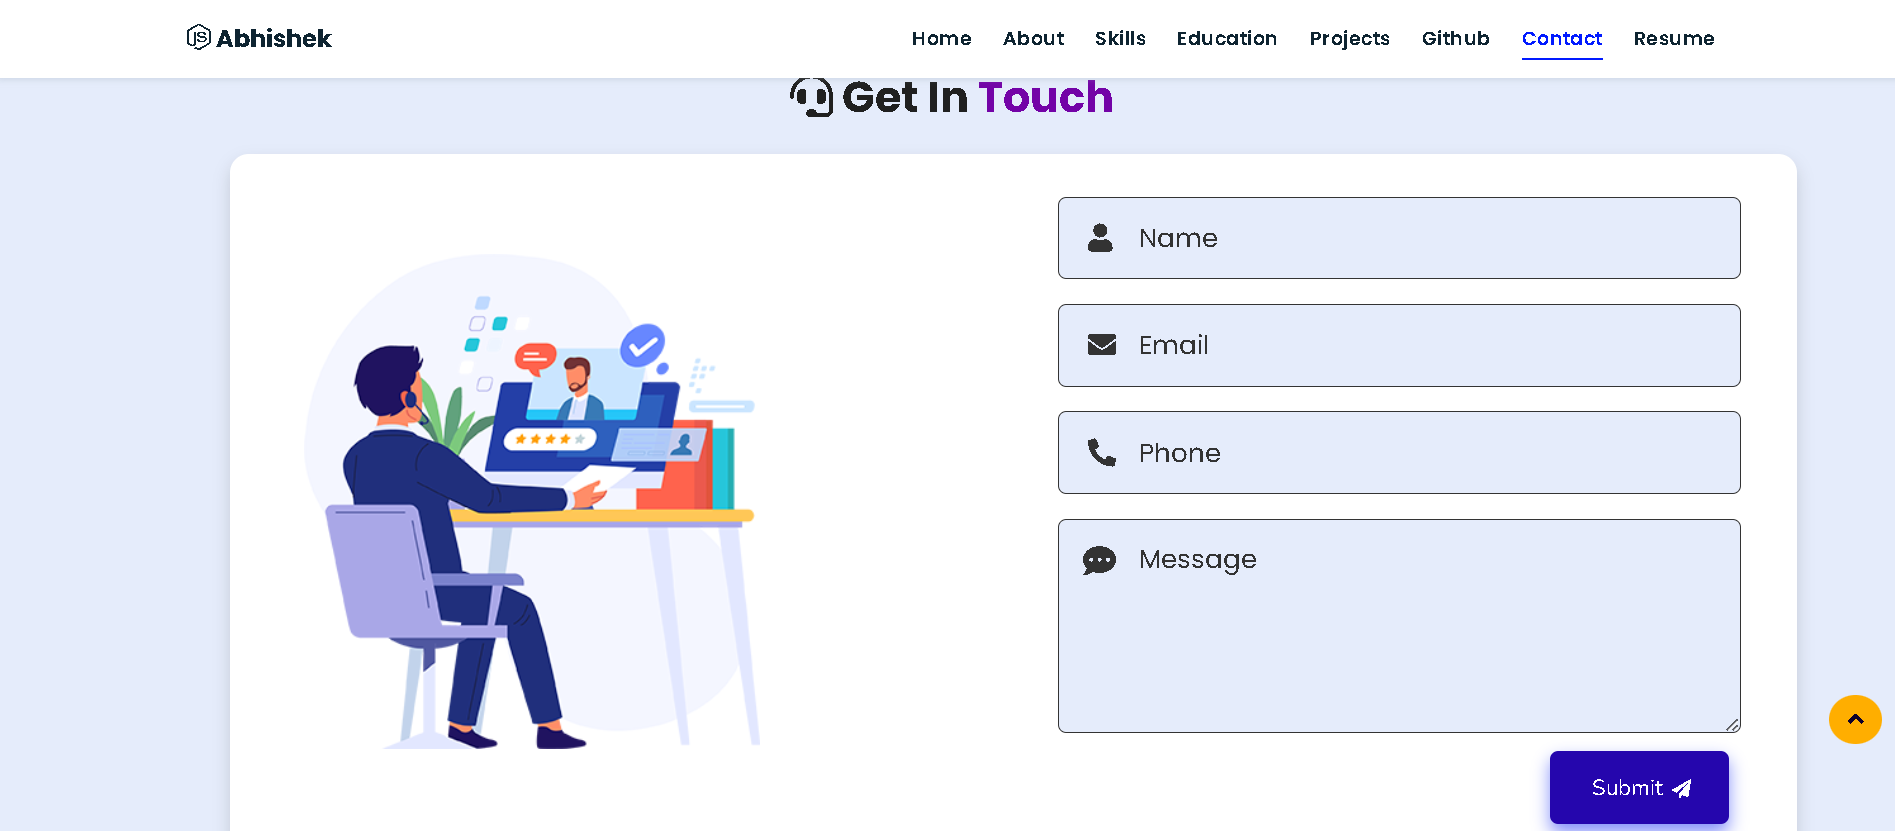
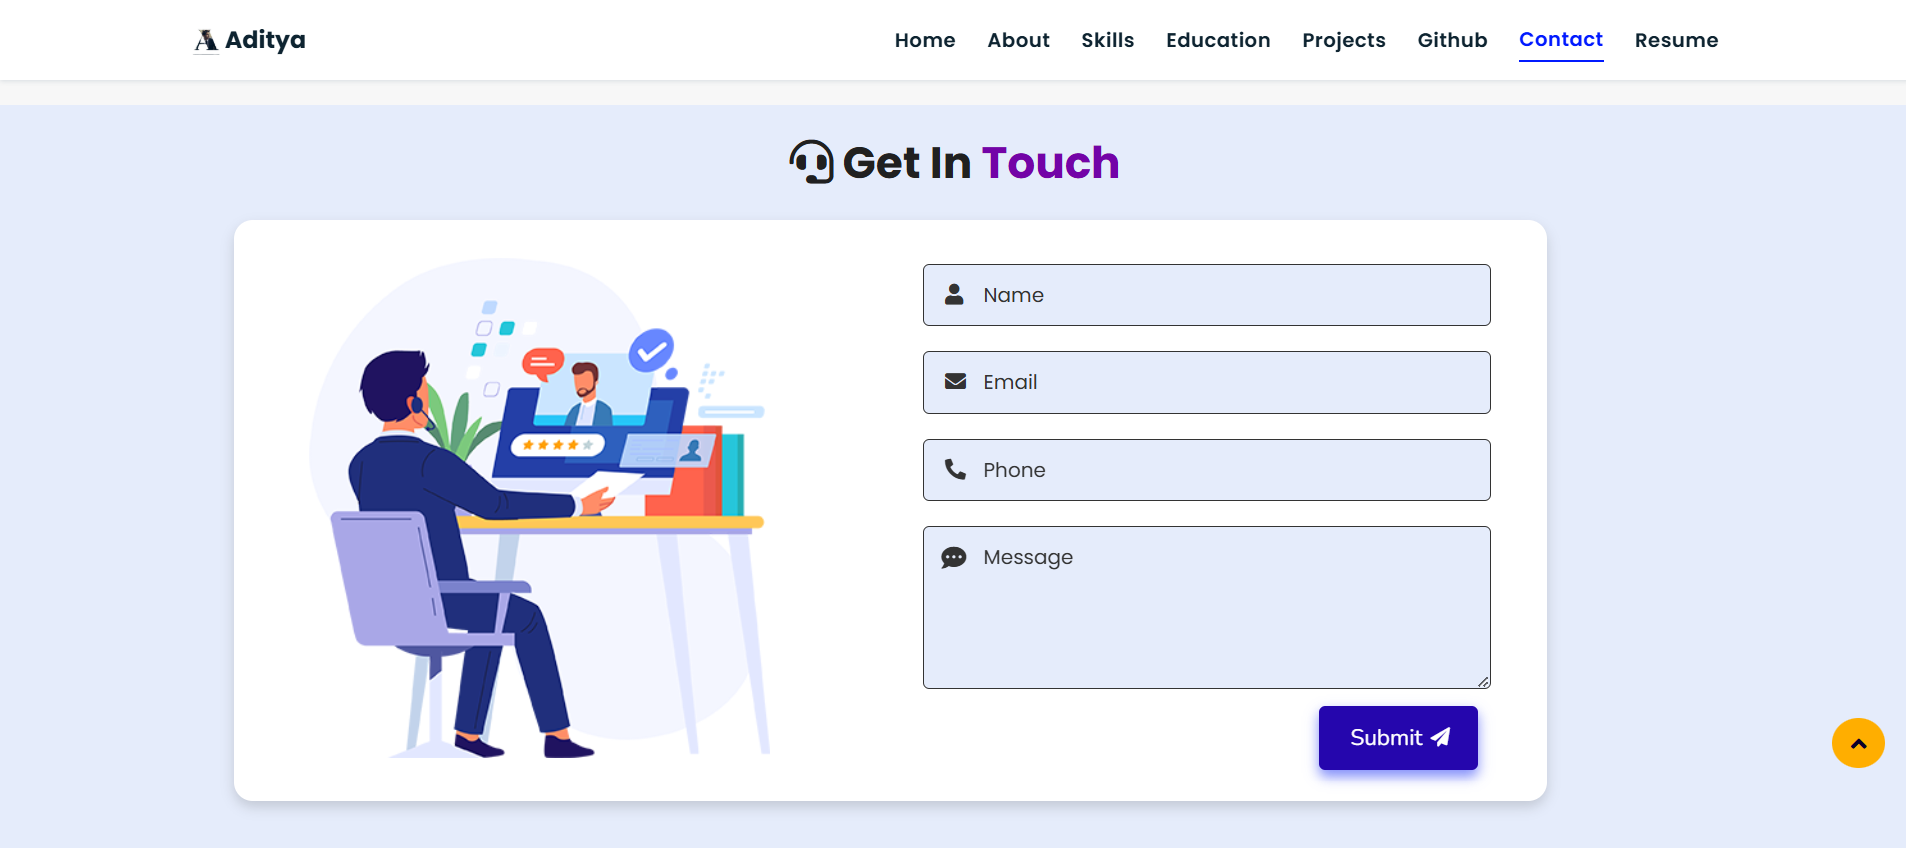
work on portfolio website

diff --git a/index.html b/index.html
@@ -62,7 +62,9 @@
         <a href="#contact">Contact</a>
       </li>
       <li class="nav-link resume">
-        <a  id="resume-button-1" >Resume</a>
+        <a href="assets/images/CV_ADITYA_PRATAP.pdf" id="resume-button-2" target="_blank" class="btn"
+          download=""><span>Resume</span>
+        </a>
       </li>
     </ul>
   </nav>
@@ -115,7 +117,7 @@
       <h3 id="user-detail-name">I'm Aditya Pratap Singh</h3>
       <span class="tag">Software Engineer</span>
 
-      <p id="user-detail-intro">"Hello, I'm Abhishek Dukare, a highly motivated software engineer
+      <p id="user-detail-intro">"Hello, I'm Aditya Pratap Singh, a highly motivated software engineer
         HTML,CSS,JavaScript. I recently completed
         my graduation in Computer Applications (BCA) and am currently pursuing a program in full stack development at
         Masai School. Passionate about software development, I constantly strive to enhance my skills. I have a keen
@@ -127,18 +129,18 @@
 
         <div class="box">
           <p><span> email : </span> adityapratap1490@gmail.com</p>
-          <p><span> place : </span> Sirsaganj, Firozabad, Uttar Pradesh - 283151</p>
+          <p><span> place : </span> AG Block, Shalimar Bagh, Delhi - 110088</p>
         </div>
       </div>
 
       <div class="resumebtn">
         <!-- <section id="resume" > -->
-          <a href="assets/images/CV_ADITYA_PRATAP.pdf" id="resume-button-2" target="_blank" class="btn"
+        <a href="assets/images/CV_ADITYA_PRATAP.pdf" id="resume-button-2" target="_blank" class="btn"
           download=""><span>Resume</span>
           <i class="fas fa-chevron-right"></i>
         </a>
         <!-- </section> -->
-        
+
       </div>
 
     </div>
@@ -146,7 +148,7 @@
 </section>
 <!-- about section ends -->
 <!-- <section id="resume">
-  <a href="assets/images/Abhishek-Dukare-Resume.pdf" id="resume-link-1" class="btn-rounded-white" download="">Download
+  <a href="assets/images/CV_ADITYA_PRATAP.pdf" id="resume-link-1" class="btn-rounded-white" download="">Download
     Resume</a>
 </section> -->
 
@@ -157,9 +159,6 @@
 
   <div class="container">
     <div class="row" id="skillsContainer">
-
-
-
     </div>
   </div>
 </section>
@@ -182,17 +181,6 @@
         <h3>MCA</h3>
         <p>Hindustan Institute of Management & Computer Studies Farah Mathura</p>
         <h4>2020-2022 | Completed</h4>
-      </div>
-    </div>
-
-    <div class="box">
-      <div class="image">
-        <img draggable="false" src="./assets/images/educat/dbru.jpeg" alt="">
-      </div>
-      <div class="content">
-        <h3>BSC</h3>
-        <p>Dr. Bhim Rao Ambedkar University Agra</p>
-        <h4>2016-2020 | Completed</h4>
       </div>
     </div>
 
@@ -237,18 +225,17 @@
 
     <div class="container right">
       <div class="content">
-        <a href="https://github.com/abhi21121211">
+        <a href="https://github.com/adityapratap52">
           <img id="github-streak-stats" title="🔥 Get streak stats for your profile at git.io/streak-stats"
-            alt="abhi21121211's streak"
-            src="https://github-readme-streak-stats.herokuapp.com/?user=abhi21121211&theme=radical&hide_border=true&stroke=0000&background=#122722" />
+            alt="adityapratap52's streak"
+            src="https://github-readme-streak-stats.herokuapp.com/?user=adityapratap52&theme=radical&hide_border=true&stroke=0000&background=#122722" />
         </a>
-
       </div>
     </div>
 
     <div class="container left">
       <div class="content">
-        <img id="github-top-langs" src="https://github-readme-stats.vercel.app/api/top-langs/?username=abhi21121211">
+        <img id="github-top-langs" src="https://github-readme-stats.vercel.app/api/top-langs/?username=adityapratap52">
 
       </div>
     </div>
@@ -256,14 +243,14 @@
     <div class="container right">
       <div class="content">
         <img
-          src="https://github-profile-summary-cards.vercel.app/api/cards/most-commit-language?username=abhi21121211&theme=2077">
+          src="https://github-profile-summary-cards.vercel.app/api/cards/most-commit-language?username=adityapratap52&theme=2077">
 
       </div>
     </div>
 
     <div class="container left">
       <div class="content">
-        <img id="github-stats-card" src="https://github-readme-stats.vercel.app/api?username=abhi21121211">
+        <img id="github-stats-card" src="https://github-readme-stats.vercel.app/api?username=adityapratap52">
 
       </div>
     </div>
@@ -271,7 +258,7 @@
     <div class="container right">
       <div class="content">
         <img
-          src="https://github-profile-summary-cards.vercel.app/api/cards/productive-time?username=abhi21121211&theme=2077&utcOffset=8">
+          src="https://github-profile-summary-cards.vercel.app/api/cards/productive-time?username=adityapratap52&theme=2077&utcOffset=8">
 
       </div>
     </div>
@@ -279,25 +266,18 @@
     <div class="container left">
       <div class="content" id="chart">
         <div class="react-activity-calendar">
-          <img src="https://ghchart.rshah.org/abhi21121211" alt="abhi21121211 Github chart" />
+          <img src="https://ghchart.rshah.org/adityapratap52" alt="adityapratap52 Github chart" />
         </div>
-
-
-
-
       </div>
     </div>
   </div>
-
-
-
   </div>
 
 </section>
 <!-- experience section ends -->
 
 <!-- contact section starts -->
-<section class="contact-c" id="contact" >
+<section class="contact-c" id="contact">
 
   <h2 class="heading"><i class="fas fa-headset"></i> Get in <span>Touch</span></h2>
 
@@ -346,7 +326,7 @@
   <div class="box-container">
 
     <div class="box">
-      <h3>Abhishek's Portfolio</h3>
+      <h3>Aditya Pratap Singh's Portfolio</h3>
       <p>Thank you for visiting my personal portfolio website. Connect with me over socials. <br /> <br /> Keep Rising
         🚀. Connect with me over live chat!</p>
     </div>
@@ -361,25 +341,25 @@
       <a href="#experience"><i class="fas fa-chevron-circle-right"></i> github</a>
     </div>
 
-    <div class="box" >
+    <div class="box">
       <h3>contact info</h3>
-      <p> <i id="phone" class="fas fa-phone"></i>+91 7020162627</p>
-      <p> <i class="fas fa-envelope"></i>abhishekdukare689@gmail.com</p>
-      <p> <i class="fas fa-map-marked-alt"></i>Kopargaon, Maharashtra - 423601</p>
+      <p> <i id="phone" class="fas fa-phone"></i>+91 9119786188</p>
+      <p> <i class="fas fa-envelope"></i>adityapratap1490@gmail.com</p>
+      <p> <i class="fas fa-map-marked-alt"></i>AG Block, Shalimar Bagh, Delhi - 110088</p>
       <div class="share">
 
-        <a id="contact-linkedin" href="https://www.linkedin.com/in/abhishek-dukare" class="fab fa-linkedin"
+        <a id="contact-linkedin" href="https://www.linkedin.com/in/adityapratap52" class="fab fa-linkedin"
           aria-label="LinkedIn" target="_blank">
         </a>
 
-        <a id="contact-github" href="https://github.com/abhi21121211" class="fab fa-github" aria-label="GitHub"
+        <a id="contact-github" href="https://github.com/adityapratap" class="fab fa-github" aria-label="GitHub"
           target="_blank">
         </a>
 
-        <!-- <a id="contact-email" href="mailto:abhishekdukare689@gmail.com" class="fas fa-envelope" aria-label="Mail"
+        <!-- <a id="contact-email" href="mailto:adityapratap1490@gmail.com" class="fas fa-envelope" aria-label="Mail"
           target="_blank">
         </a> -->
-        <a  id="contact-email" target="_blank">
+        <a id="contact-email" target="_blank">
           <i class="fas fa-envelope"></i>
         </a>
 
@@ -391,7 +371,7 @@
   </div>
 
   <h1 class="credit">Designed with <i class="fa fa-heart pulse"></i> by <a
-      href="https://www.linkedin.com/in/abhishek-dukare"> Abhishek Dukare</a></h1>
+      href="https://www.linkedin.com/in/adityapratap52"> Aditya Pratap Singh</a></h1>
 
 </section>
 <!-- footer section ends -->
@@ -490,7 +470,7 @@
   var contactEmailIcon = document.getElementById("contact-email");
   contactEmailIcon.addEventListener("click", function () {
     // Replace "1234567890" with the desired phone number
-    window.location.href = "mailto:abhishekdukare689@gmail.com";
+    window.location.href = "mailto:adityapratap1490@gmail.com";
   });
 </script>
 

diff --git a/assets/js/script.js b/assets/js/script.js
@@ -71,7 +71,7 @@ $(document).ready(function () {
             message: messageText,
           };
 
-          var serviceID = "service_m7fmold"; // Your Email Service ID
+          var serviceID = "servicfmold"; // Your Email Service ID
           var templateID = "template_ta4qdi2"; // Your Email Template ID
 
           // Send the email using Email.js
@@ -132,10 +132,11 @@ function showSkills(skills) {
   let skillsContainer = document.getElementById("skillsContainer");
   let skillHTML = "";
   skills.forEach((skill) => {
+    let imgWidth = skill.name === "JSP" ? "49px" : "auto"; 
     skillHTML += `
         <div class="bar">
         <div class="info skills-card">
-        <img class="skills-card-img" src=${skill.icon} alt="skill" />
+        <img class="skills-card-img" width=${imgWidth} src=${skill.icon} alt="skill" />
         <span class="skills-card-name">${skill.name}</span>
       </div>
              
@@ -278,17 +279,17 @@ srtop.reveal(".contact-c .container .form-group", { delay: 400 });
 
 //navbar resume btn
 
-var resume1 = document.getElementById("resume-button-1");
-resume1.addEventListener("click", function () {
-  const previewUrl =
-    "https://drive.google.com/file/d/11bK4FKFlioVoD2HiNnaRXMe_KEvAIwRX/view?usp=sharing";
+// var resume1 = document.getElementById("resume-button-1");
+// resume1.addEventListener("click", function () {
+//   const previewUrl =
+//     "https://drive.google.com/file/d/11bK4FKFlioVoD2HiNnaRXMe_KEvAIwRX/view?usp=sharing";
     
-  const downloadUrl =
-    "https://www.dropbox.com/s/vryemzdjb9vrc81/Abhishek%20Dukare.pdf?dl=1";
+//   const downloadUrl =
+//     "https://www.dropbox.com/s/vryemzdjb9vrc81/CV_ADITYA_PRATAP.pdf?dl=1";
 
-  window.open(previewUrl, "_blank");
-  window.location.href = downloadUrl;
-});
+//   window.open(previewUrl, "_blank");
+//   window.location.href = downloadUrl;
+// });
 
 
 // PHone contact

diff --git a/assets/css/style.css b/assets/css/style.css
@@ -470,7 +470,7 @@ header .navbar ul li a:hover {
 
 /*.skills-c section starts */
 .skills-c {
-  min-height: 90vh;
+  min-height: 70vh;
   background: linear-gradient(to bottom, #57059e, #4a00e0);
 }
 .skills-c h2 {
@@ -497,7 +497,7 @@ header .navbar ul li a:hover {
   gap: 1.8rem;
 }
 .skills-c .container .bar {
-  width: 100px;
+  width: 110px;
   margin-bottom: 15px;
   padding: 10px;
   border-radius: 1rem;
@@ -570,7 +570,7 @@ header .navbar ul li a:hover {
 /* education section starts */
 .education {
   background: #e5ecfb;
-  min-height: 80vh;
+  min-height: 50vh;
 }
 .education .qoute {
   font-size: 1.5rem;
